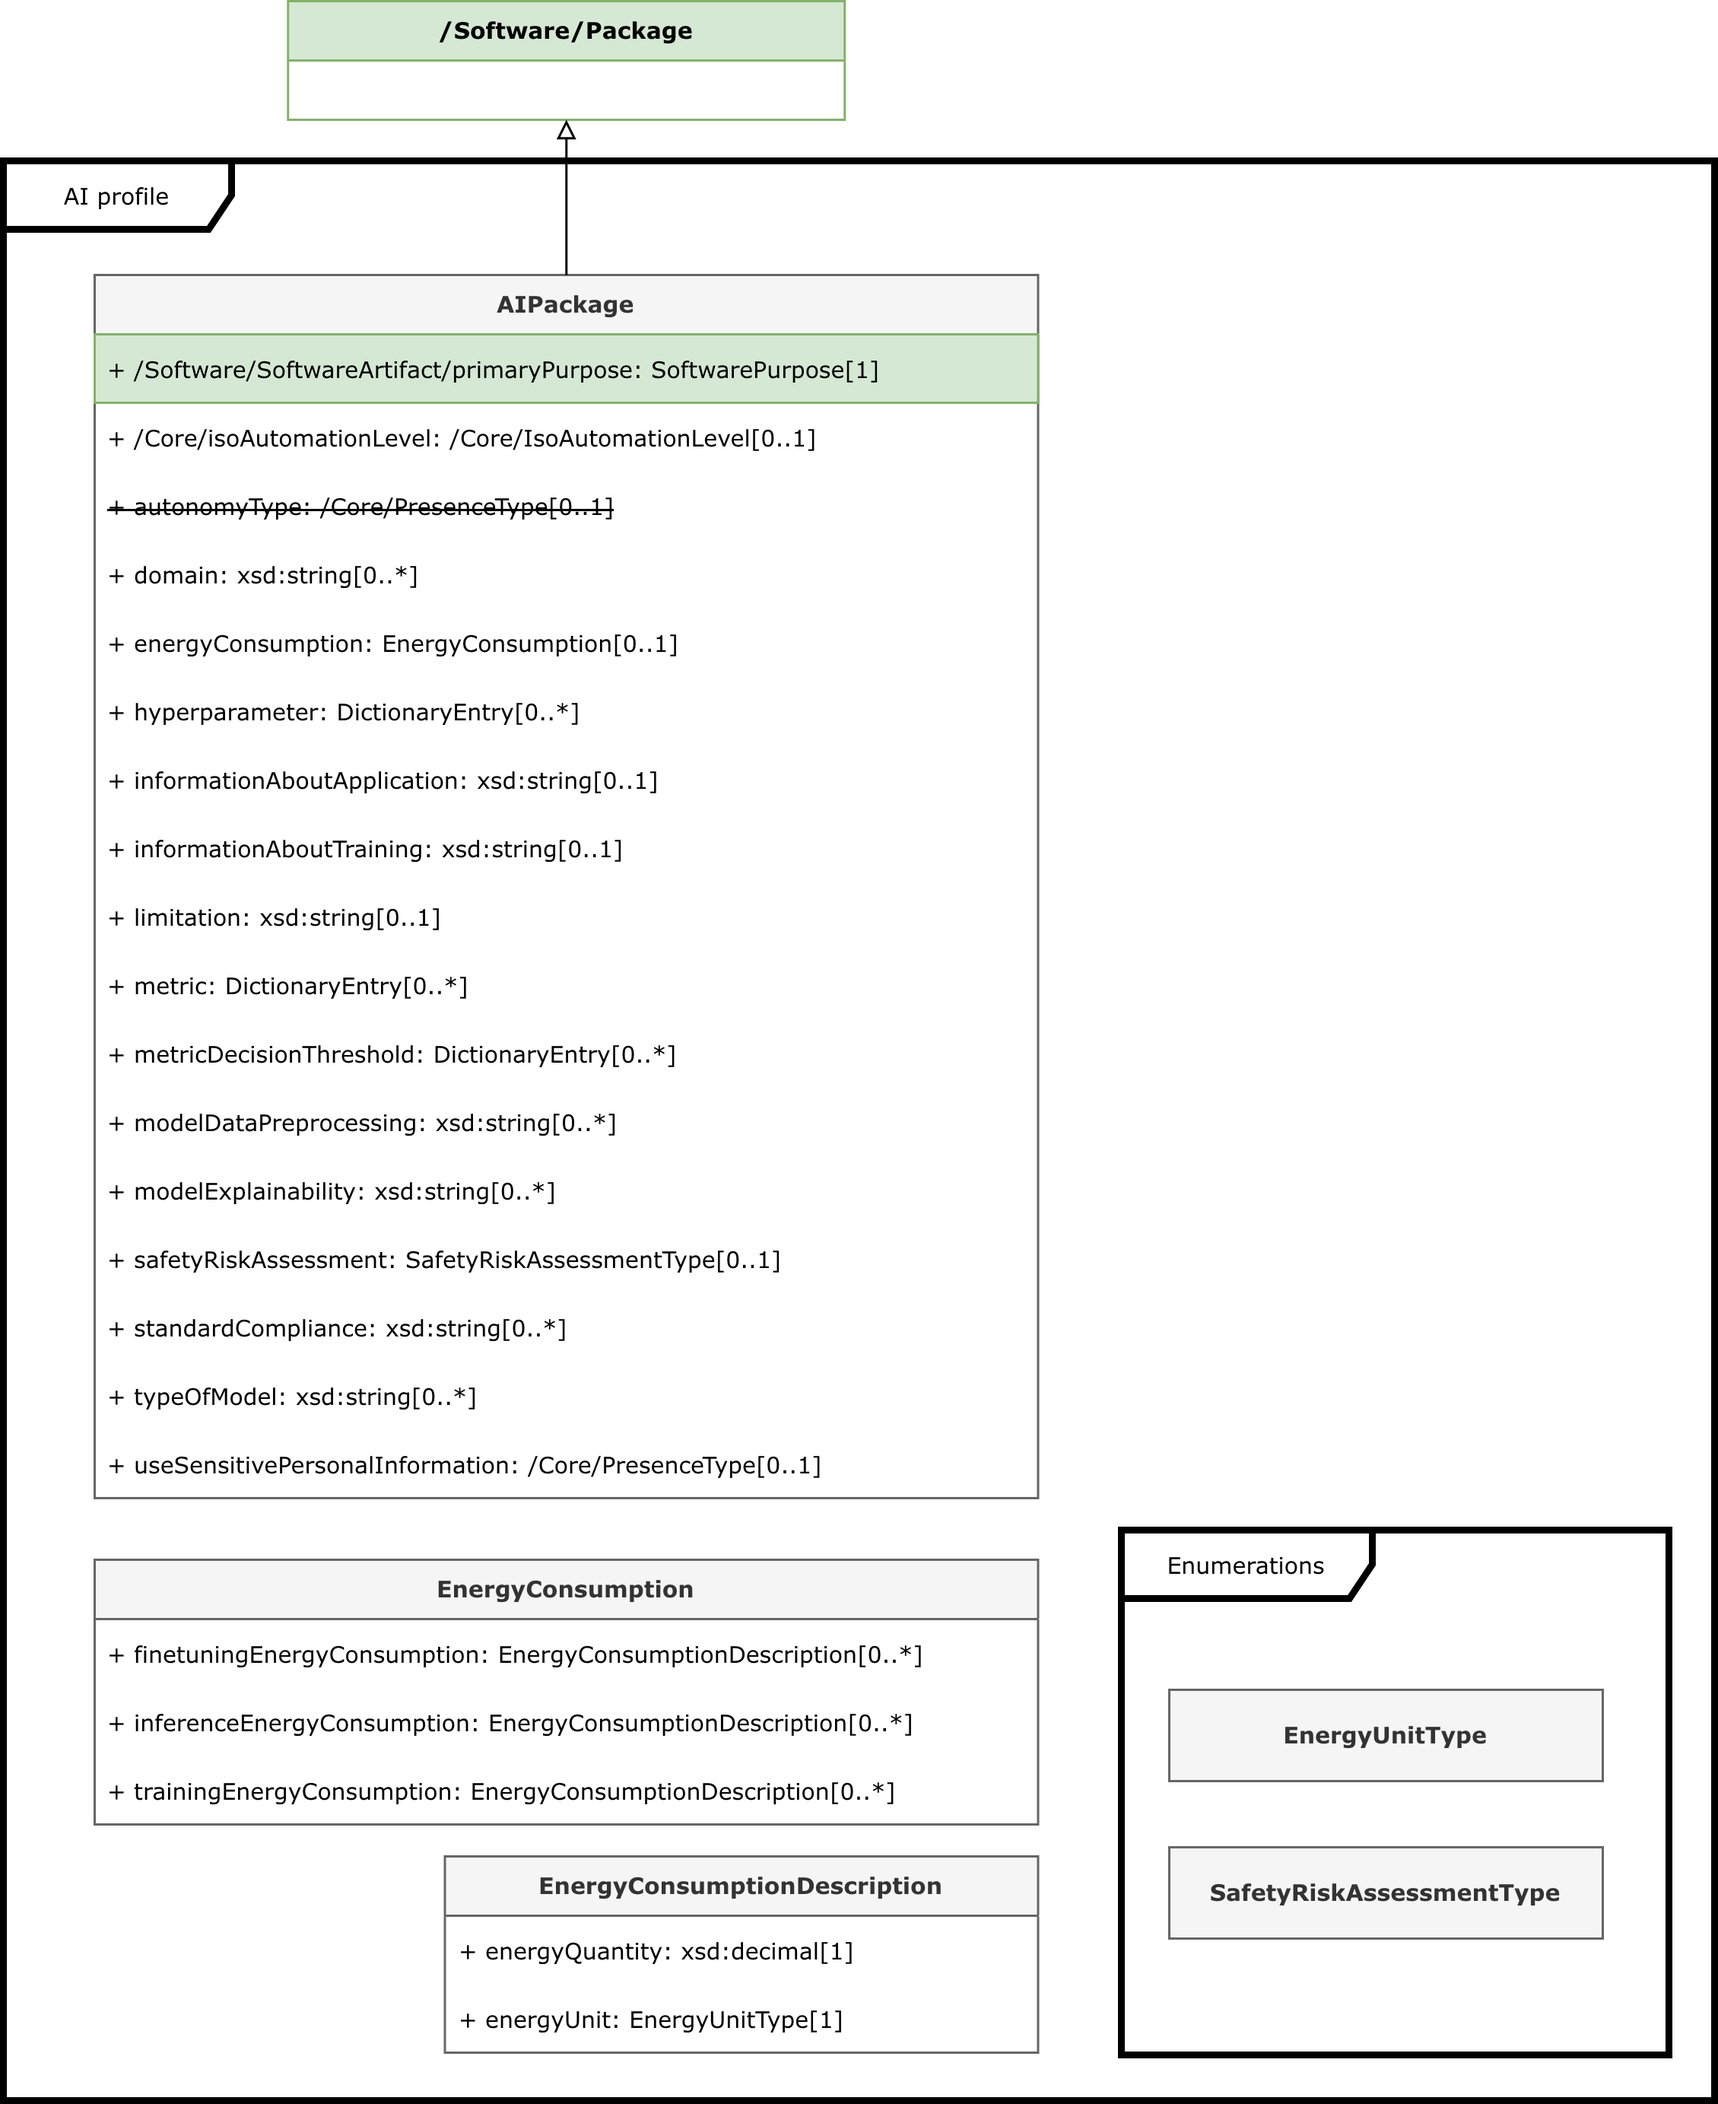
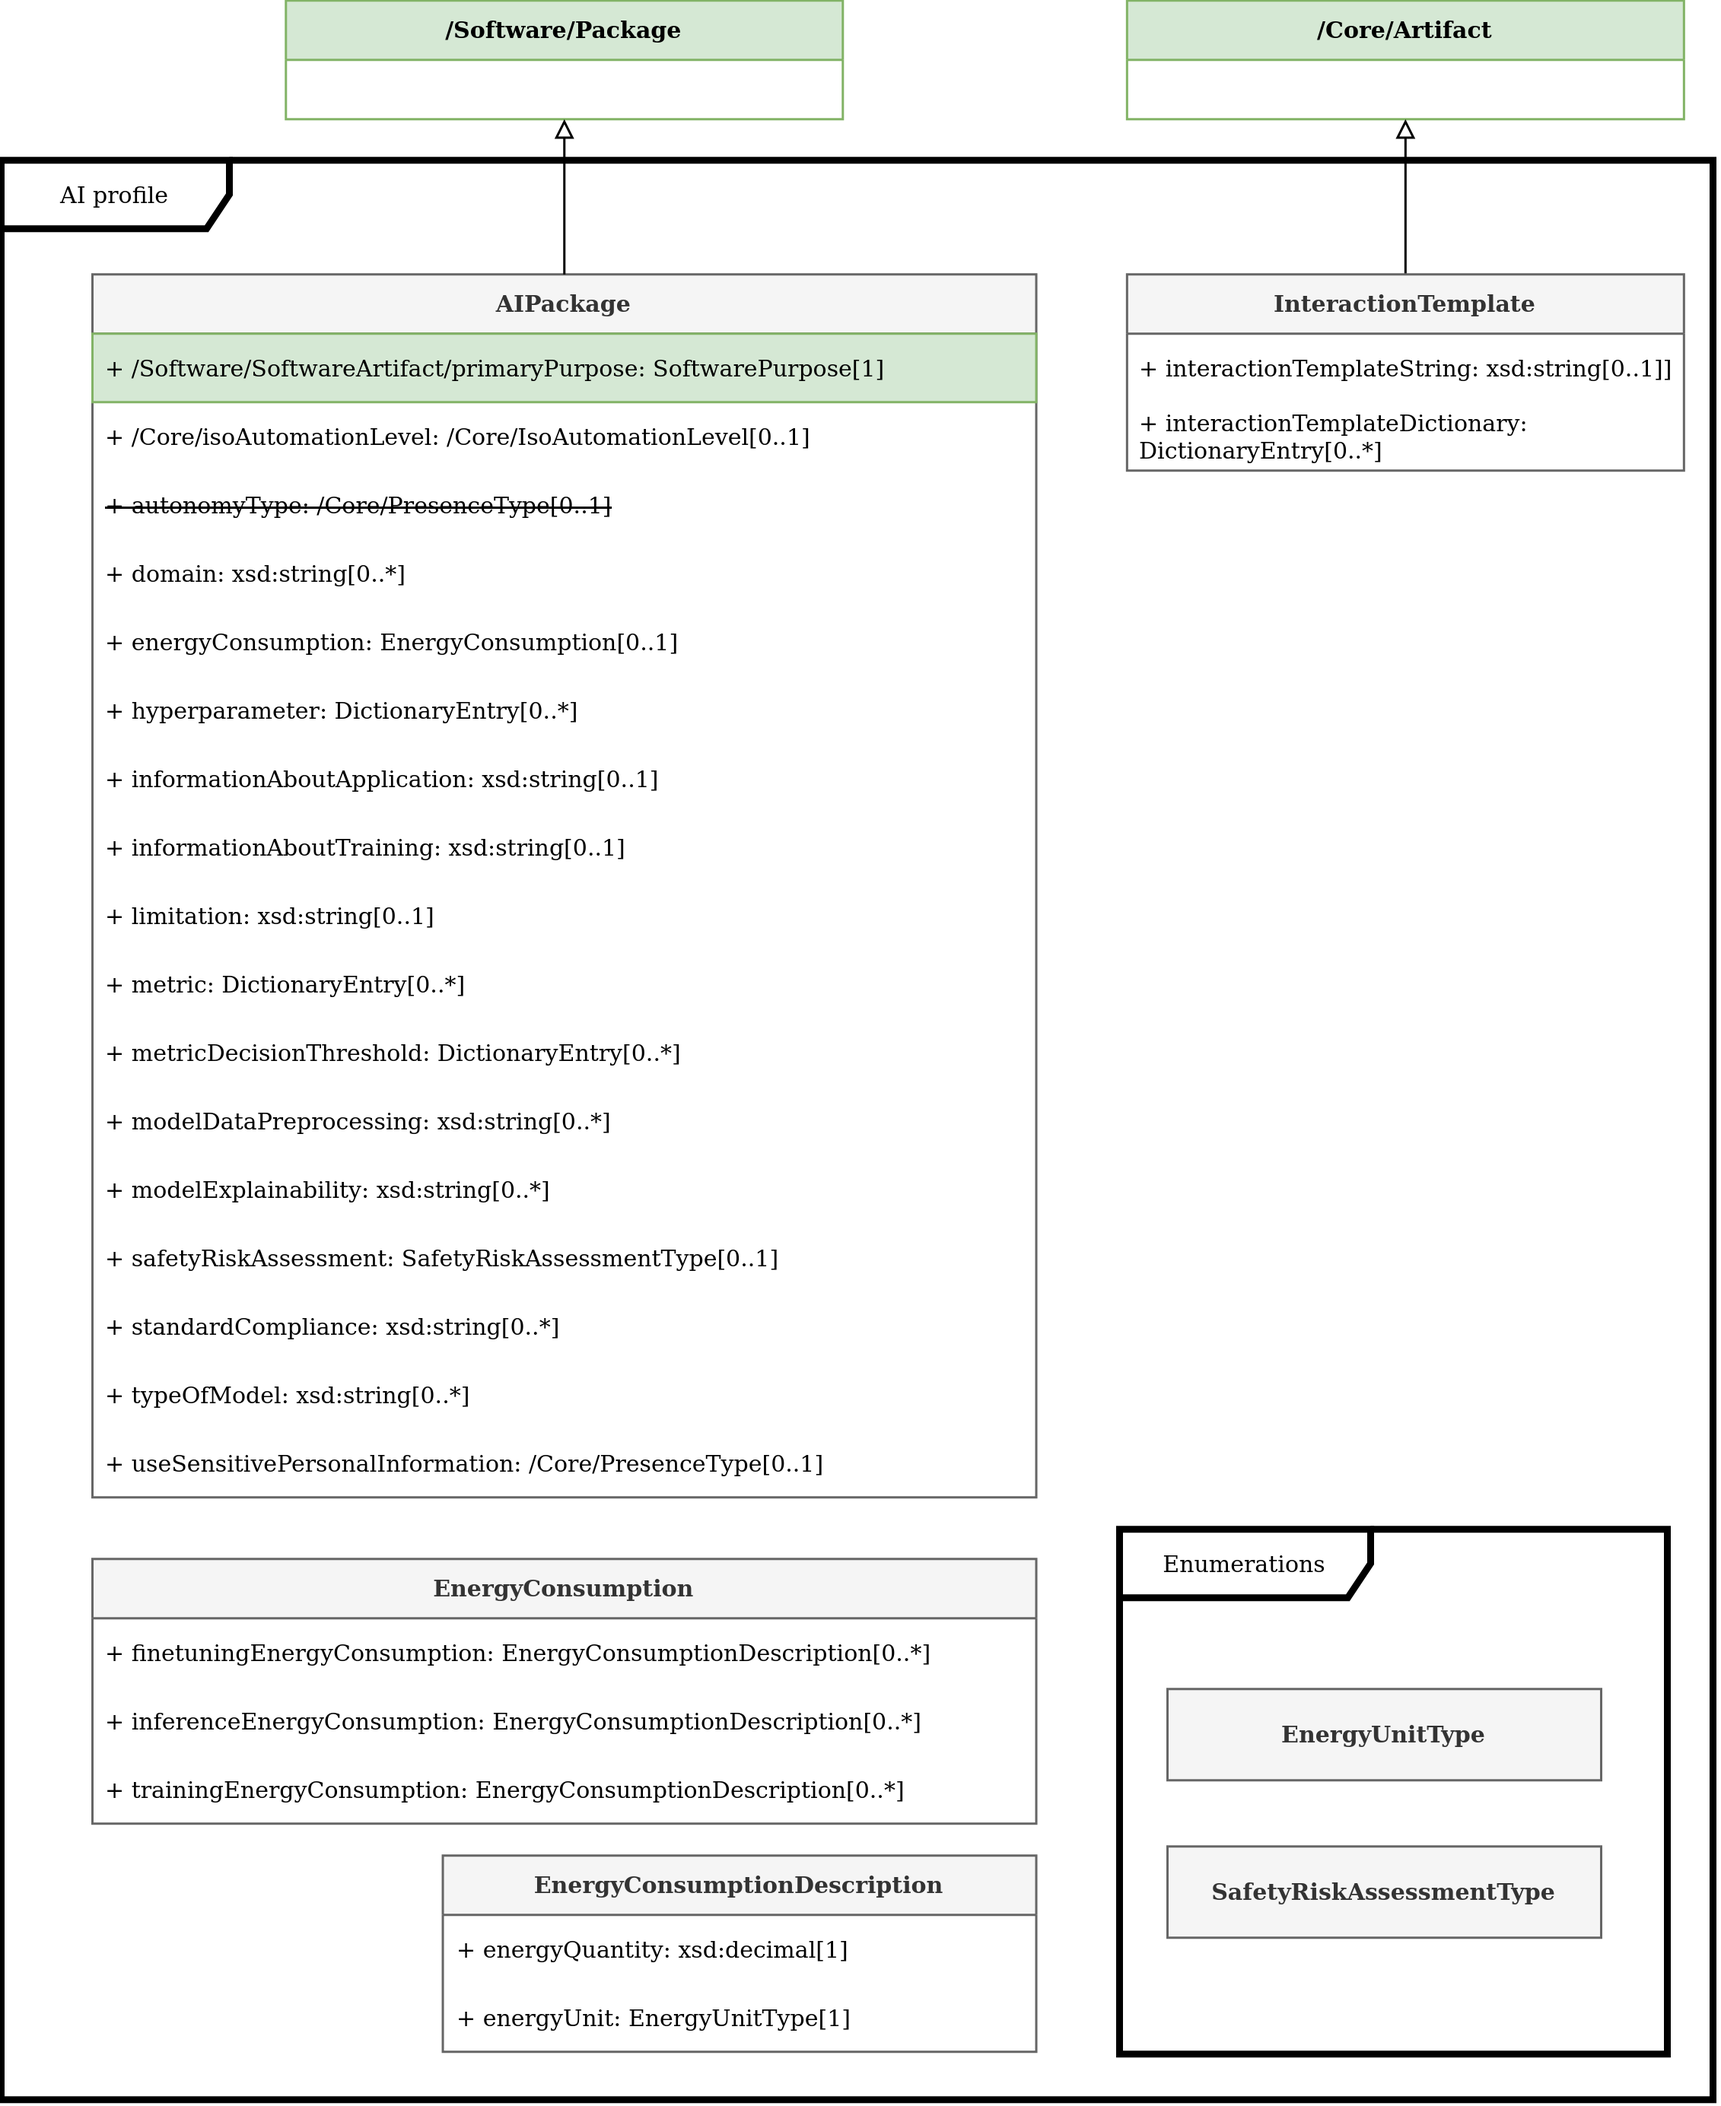
AI interaction template (#1280)
* Update AIPackage.md

* Add files via upload

* Add files via upload

* Add files via upload

* Add files via upload

* Add files via upload

* Update AIPackage.md

* Delete model/AI/Properties/chatTemplate.md

* Add files via upload

* Add files via upload

* Update inferenceTemplateDictionary.md

* Update InferenceTemplate.md

* Add files via upload

* Add files via upload

* Update and rename InferenceTemplate.md to InteractionTemplate.md

* Update and rename inferenceTemplateDictionary.md to interactionTemplateDictionary.md

* Update and rename inferenceTemplateString.md to interactionTemplateString.md

* Update interactionTemplateDictionary.md

* Update model/AI/Classes/InteractionTemplate.md

* Update InteractionTemplate.md

add a line about InteractionTemplate is linked to an AIPackage or AIAgent via a /Core/LifecycleScopedRelationship with `relationshipType` = 'configures'.

* Update InteractionTemplate.md

* Update InteractionTemplate.md

* Update InteractionTemplate.md

* Update InteractionTemplate.md

* Update InteractionTemplate.md

* Update InteractionTemplate.md

* Update InteractionTemplate.md

* Update InteractionTemplate.md

* Update InteractionTemplate.md

* Update InteractionTemplate.md

* Update InteractionTemplate.md

* Update model/AI/Classes/InteractionTemplate.md

* Apply suggestions from code review

* Add files via upload

* Add files via upload

* Update InteractionTemplate.md

* Update InteractionTemplate.md

---------

diff --git a/model/AI/Classes/InteractionTemplate.md b/model/AI/Classes/InteractionTemplate.md
@@ -1,0 +1,34 @@
+SPDX-License-Identifier: Community-Spec-1.0
+
+# InteractionTemplate
+
+## Summary
+
+An artifact that defines the structure, formatting, and variable placeholders for AI model interactions.
+
+## Description
+
+Represents a parameterized template specification used to construct prompts, payloads, or structured requests for AI models. It supports flexible template instantiation through either a raw text string with placeholder syntax or a structured dictionary of variables and configuration parameters.
+
+If the template’s role is:
+
+- Inference (chat) template: `from` /AI/AIPackage or /AI/AIAgent via a /Core/LifecycleScopedRelationship with `relationshipType` = 'configures'. The `scope` = 'runtime', and `to` a class of type /AI/InteractionTemplate.
+- training template: `from` /AI/AIPackage or /AI/AIAgent via a /Core/LifecycleScopedRelationship with `relationshipType` = 'trainedOn'. The `scope` = 'runtime', and `to` a class of type /AI/InteractionTemplate.
+- pretrained template: `from` /AI/AIPackage or /AI/AIAgent via a /Core/LifecycleScopedRelationship with `relationshipType` = 'pretrainedOn'. The `scope` = 'runtime', and  `to` a class of type /AI/InteractionTemplate.
+- finetuned template: `from` /AI/AIPackage or /AI/AIAgent via a /Core/LifecycleScopedRelationship with `relationshipType` = 'finetunedOn'. The `scope` = 'runtime', and `to` a class of type /AI/InteractionTemplate.
+
+## Metadata
+
+- name: InteractionTemplate
+- SubclassOf: /Core/Artifact
+- Instantiability: Concrete
+
+## Properties
+
+- interactionTemplateString
+  - type: xsd:string
+  - minCount: 0
+  - maxCount: 1
+- interactionTemplateDictionary
+  - type: /Core/DictionaryEntry
+  - minCount: 0

diff --git a/model/AI/Properties/interactionTemplateDictionary.md b/model/AI/Properties/interactionTemplateDictionary.md
@@ -1,0 +1,17 @@
+SPDX-License-Identifier: Community-Spec-1.0
+
+# interactionTemplateDictionary
+
+## Summary
+
+A Dictionary containing the template format used to structure interactions with the AI model.
+
+## Description
+
+Links a template to a structured dictionary entry that defines template variables, placeholders, default values, or configuration parameters.
+
+## Metadata
+
+- name: interactionTemplateDictionary
+- Nature: ObjectProperty
+- Range: /Core/DictionaryEntry

diff --git a/model/AI/Properties/interactionTemplateString.md b/model/AI/Properties/interactionTemplateString.md
@@ -1,0 +1,17 @@
+SPDX-License-Identifier: Community-Spec-1.0
+
+# interactionTemplateString
+
+## Summary
+
+A string containing the template format used to structure interactions with the AI model.
+
+## Description
+
+Stores the textual representation of the template, typically containing interpolation markers, placeholders, that define the expected input/output structure.
+
+## Metadata
+
+- name: interactionTemplateString
+- Nature: DataProperty
+- Range: xsd:string
